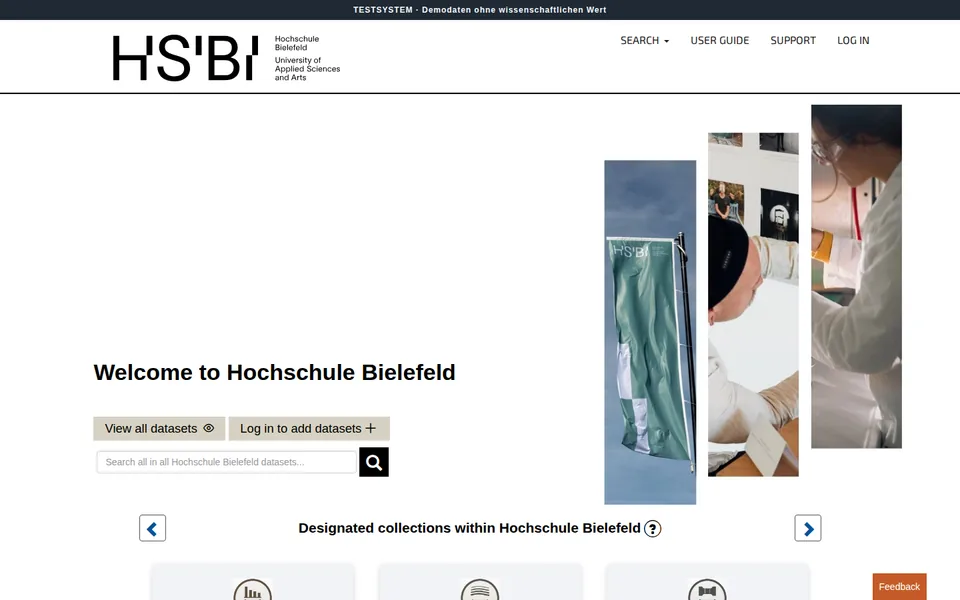
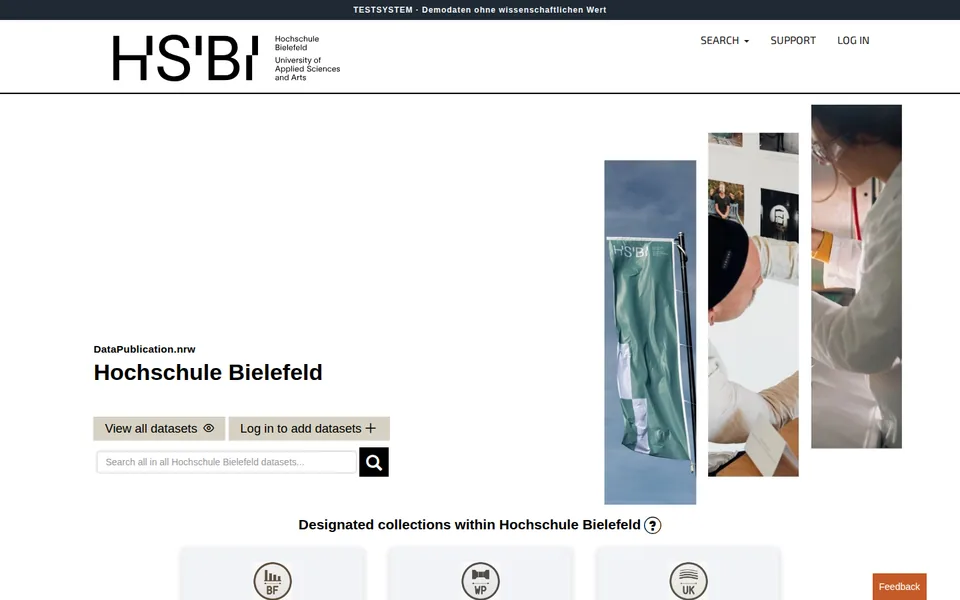
/at/ preview: progress arrow toward go-live, capture dates below the screenshots, fresh screenshots

diff --git a/templates/landing/landing.css b/templates/landing/landing.css
@@ -857,9 +857,20 @@ ol {
 }
 
 .shot figcaption {
+  display: flex;
+  flex-wrap: wrap;
+  align-items: baseline;
+  justify-content: space-between;
+  gap: 0 0.75rem;
   margin-top: 0.375rem;
   font-size: 0.9375rem;
   font-weight: 600;
+}
+
+/* Capture date: small and regular, so it reads as a footnote to the name. */
+.shot-date {
+  font-size: 0.8125rem;
+  font-weight: 400;
 }
 
 .note {
@@ -954,38 +965,83 @@ ol {
 
 /* ---------- 8 Roadmap ---------- */
 
+/*
+ * One line with a marker per phase. Done phases and the current one get a
+ * filled marker and a thick segment; the current segment ends in an arrow at
+ * --progress (0 to 1, set inline from strings) of the way to the next marker,
+ * where the "Wir sind hier" badge sits. Vertical on mobile (left rule),
+ * horizontal from 900px (top rule). Shapes are clip-path polygons on the
+ * pseudo-elements: ::before is the marker, ::after the segment or arrow.
+ */
 .timeline {
+  --rule: 2px;
+  --gap: 1rem;
+  --dot: 16px;
+  --bar: 4px;
+  --head: 14px;
+  --head-length: 12px;
   display: grid;
-  gap: 1rem;
-  border-left: 2px solid var(--dp-line);
+  gap: var(--gap);
+  border-left: var(--rule) solid var(--dp-line);
   margin-left: 0.5rem;
   padding-left: 1.5rem;
 }
 
 .phase {
   position: relative;
+  /* Centre of this phase's marker, relative to the item's top left. */
+  --mark-x: calc(-1.5rem - var(--rule) / 2);
+  --mark-y: calc(0.2rem + var(--dot) / 2);
 }
 
-/* Phase marker on the line: hollow, filled for the current phase. */
 .phase::before {
   content: "";
   position: absolute;
-  left: calc(-1.5rem - 9px);
-  top: 0.2rem;
-  width: 16px;
-  height: 16px;
+  z-index: 1;
+  left: calc(var(--mark-x) - var(--dot) / 2);
+  top: calc(var(--mark-y) - var(--dot) / 2);
+  width: var(--dot);
+  height: var(--dot);
+  box-sizing: border-box;
   border: 2px solid var(--dp-nachtblau);
   border-radius: 50%;
   background: var(--dp-weiss);
 }
 
+.phase.is-done::before,
 .phase.is-current::before {
-  left: calc(-1.5rem - 13px);
-  top: 0;
-  width: 24px;
-  height: 24px;
   background: var(--dp-nachtblau);
-  box-shadow: 0 0 0 3px var(--dp-weiss), 0 0 0 5px var(--dp-nachtblau);
+}
+
+/* Thick segment from a done phase down to the next marker. */
+.phase.is-done::after {
+  content: "";
+  position: absolute;
+  left: calc(var(--mark-x) - var(--bar) / 2);
+  top: var(--mark-y);
+  width: var(--bar);
+  height: calc(100% + var(--gap));
+  background: var(--dp-nachtblau);
+}
+
+/* Mobile: the arrow runs down to the badge at the end of the current phase. */
+.phase.is-current::after {
+  content: "";
+  position: absolute;
+  left: calc(var(--mark-x) - var(--head) / 2);
+  top: var(--mark-y);
+  width: var(--head);
+  height: calc(100% - var(--mark-y) - 0.6rem);
+  background: var(--dp-nachtblau);
+  clip-path: polygon(
+    calc(50% - var(--bar) / 2) 0,
+    calc(50% + var(--bar) / 2) 0,
+    calc(50% + var(--bar) / 2) calc(100% - var(--head-length)),
+    100% calc(100% - var(--head-length)),
+    50% 100%,
+    0 calc(100% - var(--head-length)),
+    calc(50% - var(--bar) / 2) calc(100% - var(--head-length))
+  );
 }
 
 .phase-when {
@@ -996,42 +1052,99 @@ ol {
 
 .current-label {
   display: inline-block;
-  margin-left: 0.375rem;
+  position: relative;
   padding: 0 0.5rem;
   border-radius: 999px;
   background: var(--dp-nachtblau);
   color: var(--dp-weiss);
   font-size: 0.8125rem;
+  font-weight: 600;
   line-height: 1.5;
+  white-space: nowrap;
+}
+
+.now {
+  margin: 0.5rem 0 0;
+  line-height: 1.2rem;
 }
 
 .phase h3 {
   margin-bottom: 0.25rem;
 }
 
-.phase p:last-child {
+.phase-text {
   margin: 0;
   font-size: 0.9375rem;
 }
 
 @media (min-width: 900px) {
   .timeline {
+    --gap: 1.5rem;
     grid-template-columns: repeat(4, 1fr);
-    gap: 1.5rem;
+    gap: var(--gap);
     border-left: 0;
-    border-top: 2px solid var(--dp-line);
-    margin: 12px 0 0;
+    border-top: var(--rule) solid var(--dp-line);
+    /* Room above the line for the badge at the arrow. */
+    margin: 2.75rem 0 0;
     padding: 1.5rem 0 0;
   }
 
-  .phase::before {
-    left: 0;
-    top: calc(-1.5rem - 9px);
+  .phase {
+    --mark-x: calc(var(--dot) / 2);
+    --mark-y: calc(-1.5rem - var(--rule) / 2);
   }
 
+  .phase.is-done::after {
+    left: var(--mark-x);
+    top: calc(var(--mark-y) - var(--bar) / 2);
+    width: calc(100% + var(--gap));
+    height: var(--bar);
+  }
+
+  .phase.is-current::after {
+    left: var(--mark-x);
+    top: calc(var(--mark-y) - var(--head) / 2);
+    width: calc((100% + var(--gap)) * var(--progress, 0.5));
+    height: var(--head);
+    clip-path: polygon(
+      0 calc(50% - var(--bar) / 2),
+      calc(100% - var(--head-length)) calc(50% - var(--bar) / 2),
+      calc(100% - var(--head-length)) 0,
+      100% 50%,
+      calc(100% - var(--head-length)) 100%,
+      calc(100% - var(--head-length)) calc(50% + var(--bar) / 2),
+      0 calc(50% + var(--bar) / 2)
+    );
+  }
+
+  /* The badge stands above the arrow tip, with a notch pointing at it. */
+  .now {
+    position: absolute;
+    left: calc(var(--mark-x) + (100% + var(--gap)) * var(--progress, 0.5));
+    top: calc(var(--mark-y) - var(--head) / 2 - 7px);
+    margin: 0;
+    transform: translate(-50%, -100%);
+  }
+
+  .now .current-label::after {
+    content: "";
+    position: absolute;
+    left: 50%;
+    top: 100%;
+    border: 5px solid transparent;
+    border-top-color: var(--dp-nachtblau);
+    transform: translateX(-50%);
+  }
+}
+
+/* Windows high contrast: keep the line, markers and arrow visible. */
+@media (forced-colors: active) {
+  .phase.is-done::after,
+  .phase.is-current::after,
+  .phase.is-done::before,
   .phase.is-current::before {
-    left: 0;
-    top: calc(-1.5rem - 13px);
+    background: CanvasText;
+    forced-color-adjust: none;
   }
 }
 

diff --git a/templates/landing/landing-jinja.html b/templates/landing/landing-jinja.html
@@ -205,7 +205,12 @@
             {%- else %}
             <div class="shot-missing" role="img" aria-label="{{ s.own_space.shot_alt.format(name=shot.name) }}"></div>
             {%- endif %}
-            <figcaption>{{ shot.name }}</figcaption>
+            <figcaption>
+              <span class="shot-name">{{ shot.name }}</span>
+              {%- if shot.date %}
+              <span class="shot-date">{{ s.progress.stand }}: <time datetime="{{ shot.date_iso }}">{{ shot.date }}</time></span>
+              {%- endif %}
+            </figcaption>
           </figure>
           {%- endfor %}
         </div>
@@ -239,10 +244,13 @@
         <ol class="timeline">
           {%- for i in range(1, 5) %}
           {%- set current = (i == s.roadmap.current_phase) %}
-          <li class="phase{% if current %} is-current{% endif %}"{% if current %} aria-current="step"{% endif %}>
-            <p class="phase-when">{{ s.roadmap['phase_%d_when' % i] }}{% if current %} <span class="current-label">{{ s.roadmap.current_label }}</span>{% endif %}</p>
+          <li class="phase{% if i < s.roadmap.current_phase %} is-done{% elif current %} is-current{% endif %}"{% if current %} aria-current="step" style="--progress: {{ s.roadmap.current_progress }}"{% endif %}>
+            <p class="phase-when">{{ s.roadmap['phase_%d_when' % i] }}</p>
             <h3>{{ s.roadmap['phase_%d_title' % i] }}</h3>
-            <p>{{ s.roadmap['phase_%d_text' % i] }}</p>
+            <p class="phase-text">{{ s.roadmap['phase_%d_text' % i] }}</p>
+            {%- if current %}
+            <p class="now"><span class="current-label">{{ s.roadmap.current_label }}</span></p>
+            {%- endif %}
           </li>
           {%- endfor %}
         </ol>

diff --git a/src/homepage_builder/landing.py b/src/homepage_builder/landing.py
@@ -6,6 +6,7 @@ Inputs live in templates/landing/:
   strings.<lang>.toml  all visible text
   news.toml            [[news]] entries
   status.csv           append-only log: label,status,datum
+  shots.toml           capture date per screenshot in assets/shots/ (label = date)
   map/DP.landing.svg   SVGO derivative of the shared map DP.svg (map/svgo.config.mjs)
 
 The caller wraps render_landing() so that bad landing data only skips the
@@ -288,17 +289,48 @@ def localized_partners(partners: list[dict], display_names: dict) -> list[dict]:
     return sorted(named, key=lambda p: _sort_key(p["name"]))
 
 
-def own_space_shots(labels: list[str], partners: list[dict], shots_dir: Path) -> list[dict]:
-    """Screenshot slots; src is None when the image is missing (neutral box)."""
+def read_shot_dates(path: Path) -> dict[str, date]:
+    """Capture date per screenshot label; a missing file means no dates.
+
+    Kept next to strings and news, not in assets/, so it is not published.
+    """
+    if not path.is_file():
+        return {}
+    with path.open("rb") as fh:
+        data = tomllib.load(fh)
+
+    errors = []
+    dates = {}
+    for label, value in data.items():
+        try:
+            dates[label] = _parse_iso_date(value)
+        except ValueError as exc:
+            errors.append(f"{label}: {exc}")
+    if errors:
+        raise LandingDataError(f"{path.name}: " + "; ".join(errors))
+    return dates
+
+
+def own_space_shots(
+    labels: list[str], partners: list[dict], shots_dir: Path, dates: dict[str, date], fmt: str
+) -> list[dict]:
+    """Screenshot slots; src is None when the image is missing (neutral box).
+
+    The capture date is shown only for an image that exists and has a date.
+    """
     by_label = {p["label"]: p for p in partners}
-    return [
-        {
+    slots = []
+    for label in labels:
+        exists = (shots_dir / f"{label}.webp").is_file()
+        day = dates.get(label) if exists else None
+        slots.append({
             "label": label,
             "name": by_label[label]["name"] if label in by_label else label,
-            "src": f"{LANDING_BASE_PATH}assets/shots/{label}.webp" if (shots_dir / f"{label}.webp").is_file() else None,
-        }
-        for label in labels
-    ]
+            "src": f"{LANDING_BASE_PATH}assets/shots/{label}.webp" if exists else None,
+            "date": day.strftime(fmt) if day else None,
+            "date_iso": day.isoformat() if day else None,
+        })
+    return slots
 
 
 _SVG_ROOT = re.compile(r"<svg\b[^>]*>", re.S)
@@ -641,7 +673,14 @@ def render_landing(generator_root: Path, at_root: Path, unis_csv: Path) -> Path:
 
     rows = read_status_log(landing_dir / "status.csv", partners, external)
     news = read_news(landing_dir / "news.toml")
+    shot_dates = read_shot_dates(landing_dir / "shots.toml")
     strings = read_strings(landing_dir)
+    for lang in LANGUAGES:
+        progress = strings[lang]["roadmap"].get("current_progress")
+        if isinstance(progress, bool) or not isinstance(progress, (int, float)) or not 0 <= progress < 1:
+            raise LandingDataError(
+                f"strings.{lang}.toml: roadmap.current_progress must be a number from 0 to below 1, got {progress!r}"
+            )
 
     current: dict[str, str] = {}
     for row in rows:
@@ -749,7 +788,9 @@ def render_landing(generator_root: Path, at_root: Path, unis_csv: Path) -> Path:
             step_chart=step_chart_svg(steps, total, build_date, fmt, s["progress"]["chart_title"]),
             news=[{**item, "datum": item["datum"].strftime(fmt)} for item in news[:3]],
             partners=lang_partners,
-            shots=own_space_shots(s["own_space"]["shots"], lang_partners, landing_dir / "assets" / "shots"),
+            shots=own_space_shots(
+                s["own_space"]["shots"], lang_partners, landing_dir / "assets" / "shots", shot_dates, fmt
+            ),
             map_svg=map_markup,
             logos=logos,
             build_info=build_info_segments(
